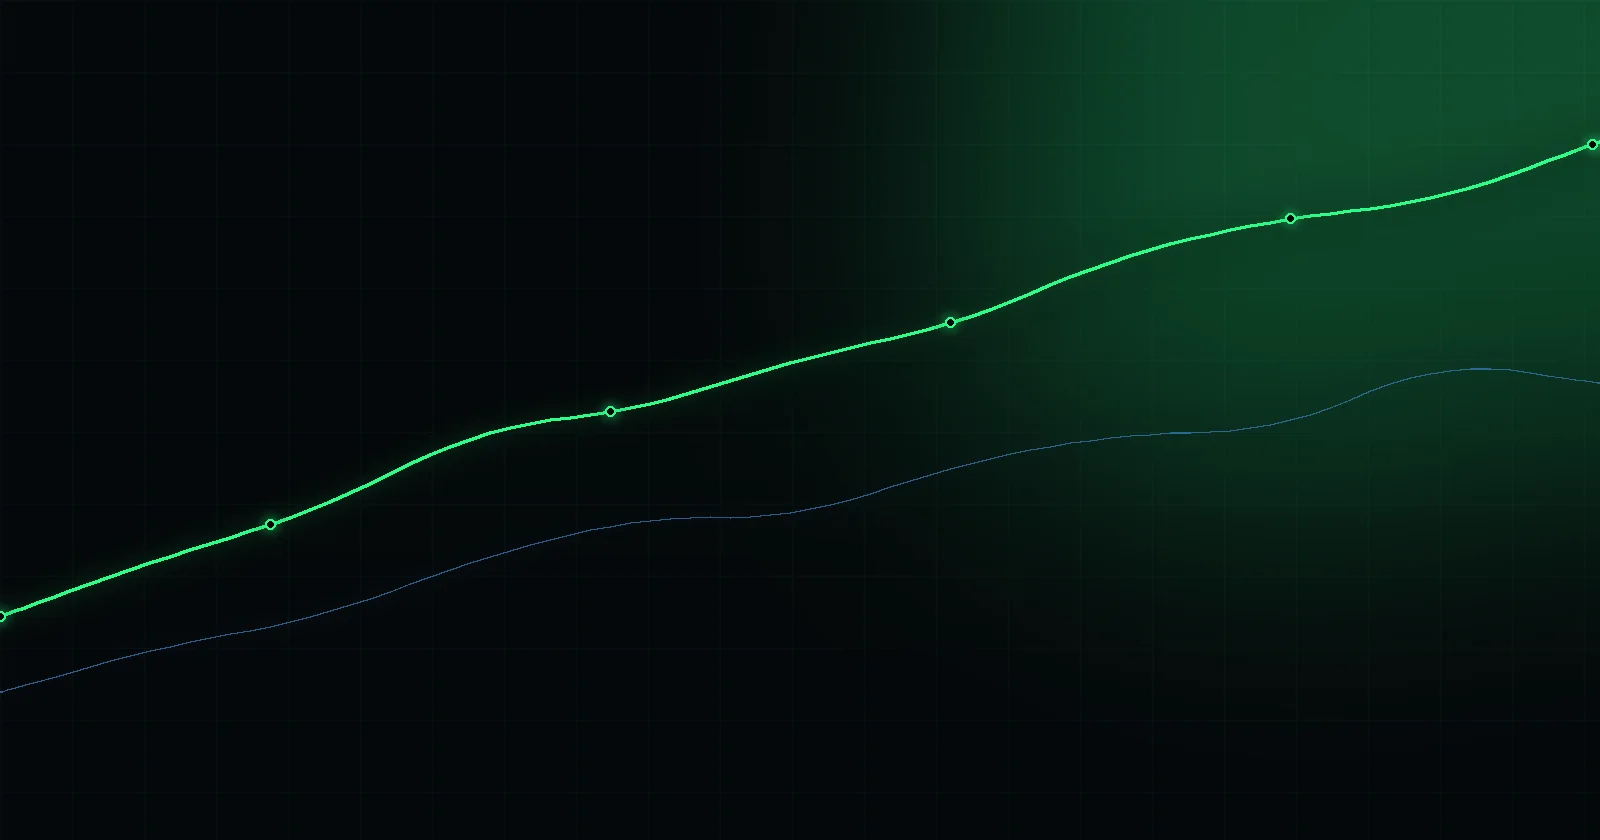
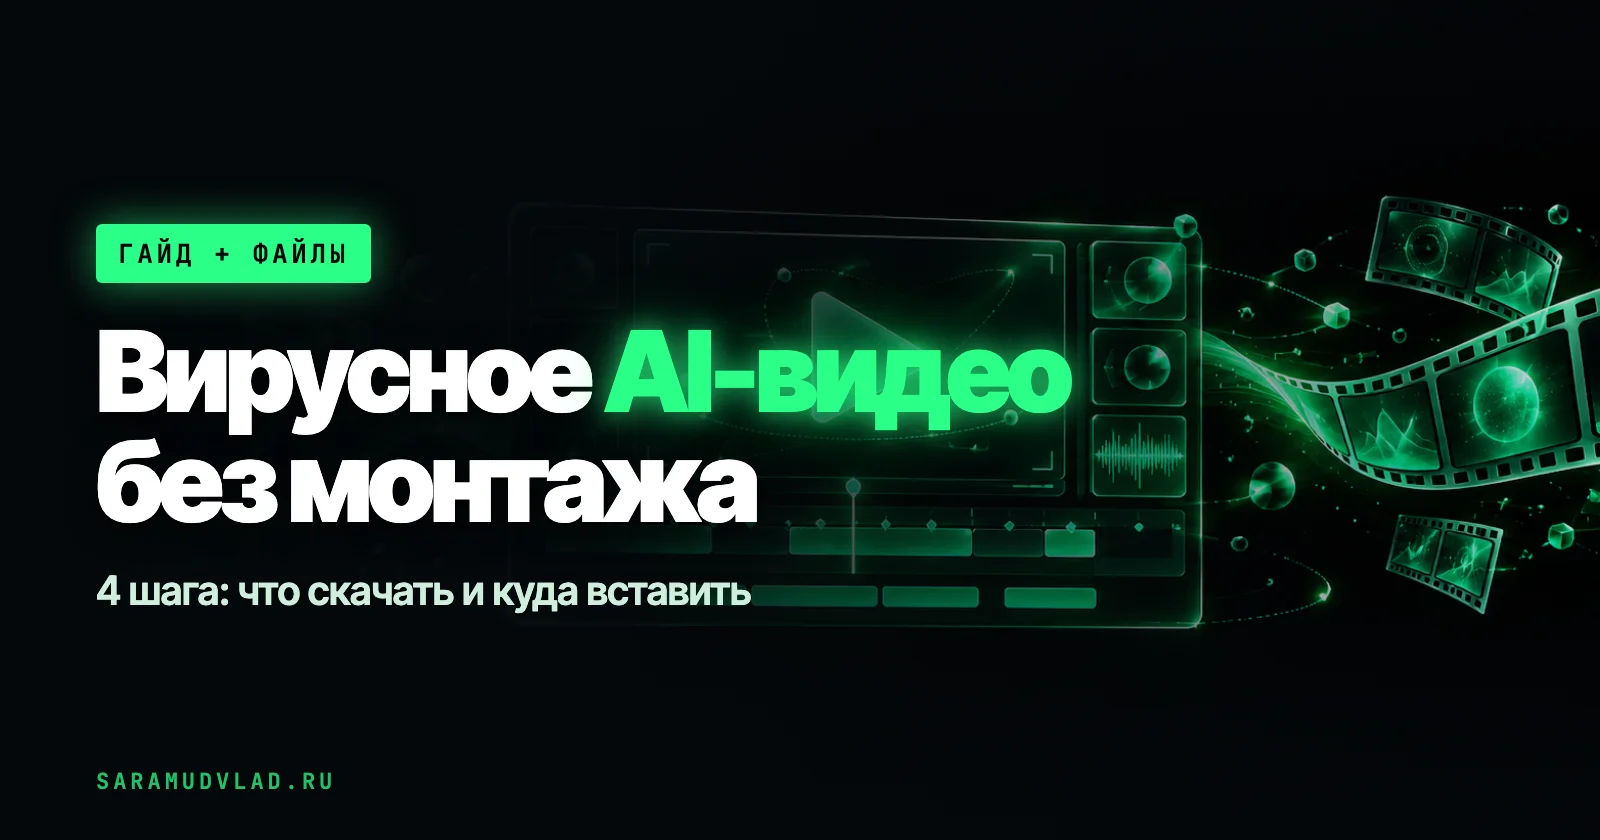
design: кликбейт-обложки статей + карточки без обрезки
- обложки как превью YouTube: крупный заголовок-крючок с неоновой цифрой,
  чип, фото автора в неоновом кольце; фон — арт из ChatGPT, текст наложен
  HTML-шаблоном (чёткая кириллица): кейс B2C, motion-as-code, ИИ в продукт. маркетинге
- карточки «Свежее в блоге»: aspect 16/10 → 1600/840 (как у картинок),
  object-cover больше не срезает края; категория перенесена вправо

diff --git a/index.html b/index.html
@@ -822,9 +822,9 @@ fetch('/articles.json').then(r=>r.json()).then(data=>{
   if (!grid || !items.length) return;
   grid.innerHTML = items.map(a=>`
     <a href="${a.url}" class="bento group flex flex-col border border-line bg-surface">
-      <div class="relative aspect-[16/10] w-full overflow-hidden border-b border-line">
+      <div class="relative w-full overflow-hidden border-b border-line" style="aspect-ratio:1600/840">
         ${a.image ? `<img src="${a.image}" alt="" loading="lazy" class="h-full w-full object-cover opacity-80 transition duration-500 group-hover:scale-105 group-hover:opacity-100">` : ''}
-        <span class="label absolute left-3 top-3 bg-ink/80 px-2 py-1 text-[9px] uppercase text-neon">${a.category||'статья'}</span>
+        <span class="label absolute right-3 top-3 bg-ink/80 px-2 py-1 text-[9px] uppercase text-neon">${a.category||'статья'}</span>
       </div>
       <div class="flex flex-1 flex-col justify-between p-5">
         <h3 class="display text-lg font-bold leading-tight text-white transition group-hover:text-neon">${a.title}</h3>
